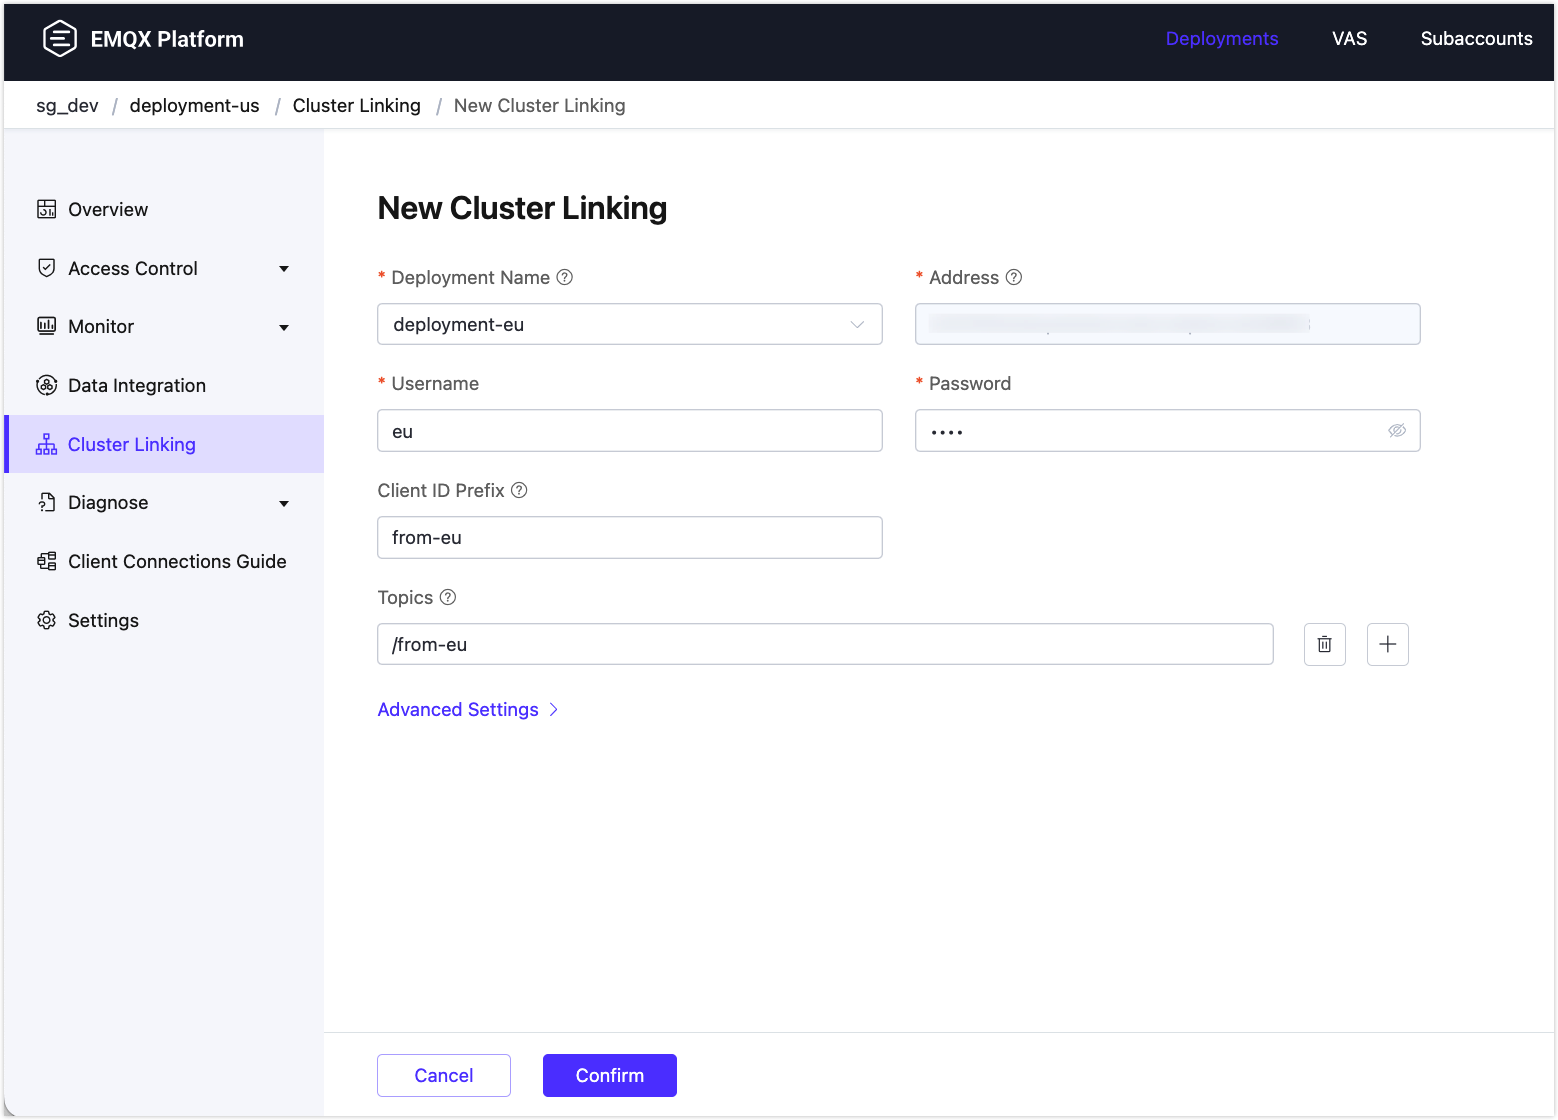
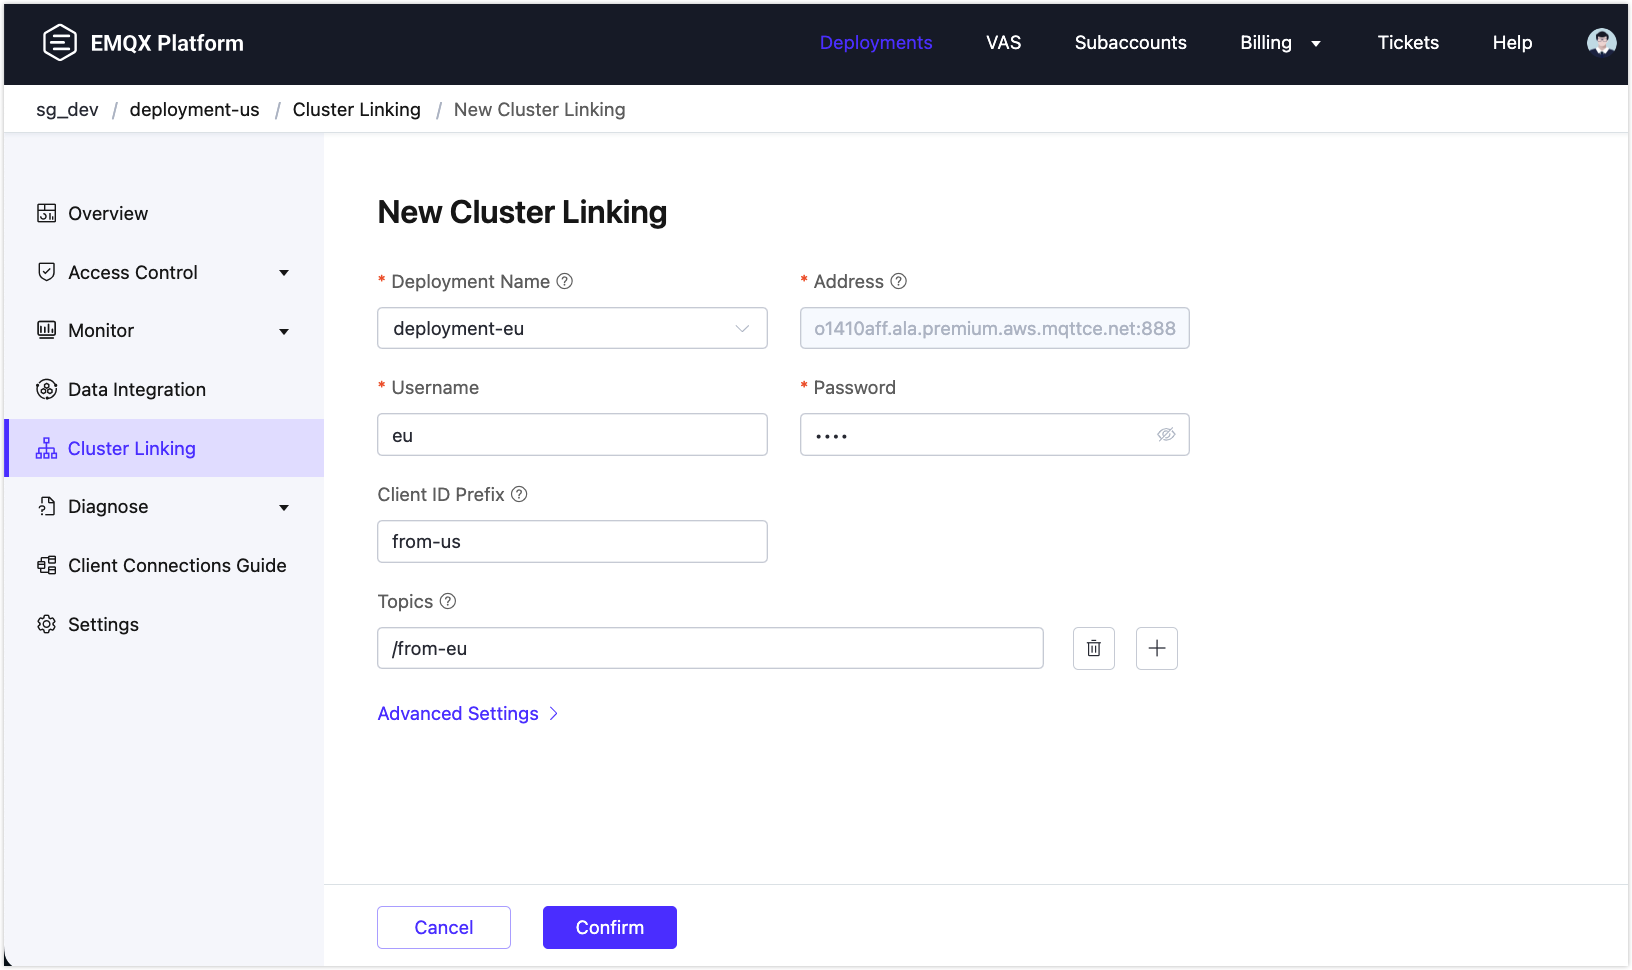
Add cluster_linking.md

diff --git a/zh_CN/cluster_linking/cluster_linking.md b/zh_CN/cluster_linking/cluster_linking.md
@@ -1,0 +1,109 @@
+# 集群连接
+
+::: tip 注意
+
+集群连接功能仅在旗舰版部署中可用。
+
+:::
+
+集群连接功能用于连接多个独立的 EMQX 集群，方便不同集群上客户端之间的通信。这种方式相比传统的 MQTT 桥接更加高效、可靠和可扩展。它最小化了带宽需求，并能够容忍网络中断。
+
+本页面介绍集群连接功能以及如何在旗舰版部署中使用和配置该功能。
+
+## 功能介绍
+
+单个部署可以有效服务成千上万分布于不同地域的 MQTT 客户端。然而，当客户端分布在全球各地时，高延迟和网络连接不良的问题就会出现。在不同区域创建多个部署可以通过本地服务客户端来缓解这些问题，但这也引入了一个新的挑战：如何实现不同部署之间客户端的无缝通信。
+
+传统的解决方案是在每个部署中添加一个 MQTT 桥接，转发两个部署之间的所有消息。这种方法导致过度的带宽使用，并可能增加消息延迟，因为许多转发的消息可能与另一侧的客户端无关。
+
+集群连接通过仅转发相关消息来解决这些问题。这种优化减少了带宽使用，并确保在网络中断期间也能有效通信。
+
+## 开始使用集群连接
+
+要在两个旗舰版部署之间创建集群连接，您需要在两个部署中都设置集群连接功能。本节将演示如何在两个旗舰版部署之间创建集群连接。
+
+在开始之前，您需要创建两个部署。例如，您可以创建名称分别为`部署-A` 和`部署-B` 的两个部署。有关如何创建旗舰版部署的更多信息，请参见[创建旗舰版部署](../create/premium.md)。
+
+### 设置网络
+
+为了确保集群间的高效连接，部署应通过公共网络连接相互通信。您需要为两个部署设置 [NAT 网关](../vas/nat-gateway.md)，并确保 NAT 网关状态为运行中。
+
+### 在`部署-A` 中创建集群连接
+
+1. 在控制台中点击 `部署-A` 的部署卡片。
+
+2. 从左侧导航菜单中选择**集群连接**。
+
+3. 点击右上角的**新建**。在**新建集群连接** 页面，配置以下选项：
+
+   - **部署名称**：选择要链接的旗舰版部署名称。在本演示中为 `部属-B`。
+
+   - **连接地址**：要连接的部署的 MQTT 主机和端口。在选择部署名称时会自动填充。
+
+   - **用户名**：输入 `部署-B` 认证页面中配置的用户名。
+
+   - **密码**：输入 `部署-B` 的认证页面中配置的密码。
+
+   - **客户端 ID 前缀**：为 MQTT 连接到 `部署-B` 使用的客户端 ID 定义前缀，例如 `from-A`。
+
+     ::: tip
+
+     根据集群的大小和配置，可能会建立多个 MQTT 客户端连接到远程集群，每个客户端必须具有唯一的 ClientID。您可以通过设置这些连接的“客户端 ID 前缀”来控制 ClientIDs 的分配方式。
+
+     :::
+
+   - **主题**：指定当前部署将从远程部署接收的 MQTT 消息的主题过滤器列表，例如 `/from-B`。您可以点击加号图标添加更多主题。
+
+     ::: tip
+
+     这些是本地集群期望从远程集群接收消息的主题。如果留空，本地集群将不会接收到来自远程集群的任何消息。
+
+     :::
+
+   - **高级设置**：配置 MQTT 协议参数等附加设置。
+
+4. 点击**确认**。您将被重定向到集群连接页面，并看到新创建的集群连接条目已默认启用。
+
+![create_link_us](./_assets/create_link_a.png)
+
+### 在 `部署-B` 中创建集群连接
+
+1. 在控制台中点击 `部署-B` 的部署卡片。
+2. 从左侧导航菜单中选择**集群连接**。
+3. 点击右上角的**新建**。在新建集群连接页面，配置以下选项：
+   - **部署名称**：从下拉列表中选择 `部署-A`。
+   - **连接地址**：`部署-A` 的 MQTT 主机和端口。在选择部署名称时会自动填充。
+   - **用户名**：输入 `部署-A` 认证页面中配置的用户名。
+   - **密码**：输入 `部署-A` 认证页面中配置的密码。
+   - **客户端 ID 前缀**：为 MQTT 连接到 `部署-A` 使用的客户端 ID 指定前缀，例如 `from-B`。
+   - **主题**：指定本地集群将从远程集群接收的消息的 MQTT 主题过滤器列表，例如 `/from-A`。您可以点击加号图标添加更多主题。
+   - **高级设置**：配置 MQTT 协议参数等附加设置。
+4. 点击**确认**。您将将被重定向到集群连接页面，并看到新创建的集群连接条目已默认启用。
+
+![create_link_eu](./_assets/create_link_b.png)
+
+## 验证集群连接
+
+您可以使用 MQTTX 验证集群连接是否成功创建。
+
+1. 在 MQTTX 中创建名为 `A-client` 的新连接，并连接到 `部署-A`。创建对主题 `/from-B` 的订阅。
+2. 在 MQTTX 中创建名为 `B-client` 的新连接，并连接到 `部署-B`。创建对主题 `/from-A` 的订阅。
+3. 使用 `A-client` 客户端向主题 `/from-A` 发送消息， payload 为 `from A`。
+4. 验证 `B-client` 客户端接收到该消息。
+5. 使用 `B-client` 客户端向主题 `/from-B` 发送消息，`A-client` 客户端也应该接收到该消息。
+
+## 创建不对称连接
+
+要创建不对称连接，您只需通过将**主题**字段设置为空并保持其他设置不变来修改集群连接配置。
+
+例如，您可以在 `部署-A` 的集群连接设置中删除主题。这意味着 `部署-A` 现在对来自 `部署-B` 的任何消息都不感兴趣。这使得集群连接变为“不对称”，适用于集群之间的单向消息转发。
+
+如果您重复[验证集群连接](#验证集群连接)中的消息发布和订阅步骤，您会注意到，从 `部署-B` 发布的消息不会被 `部署-A` 上的订阅者接收到。
+
+## 管理集群连接
+
+您可以在集群连接页面查看列出的集群连接的基本信息。
+
+通过点击部署名称，您可以在**概览**标签页下查看集群连接执行和消息传输的指标和统计信息。通过点击**设置**标签，您可以修改配置。或者，您还可以在**操作**列中点击编辑图标修改配置。
+
+点击**操作**列中的删除图标将删除所选的集群连接条目。
